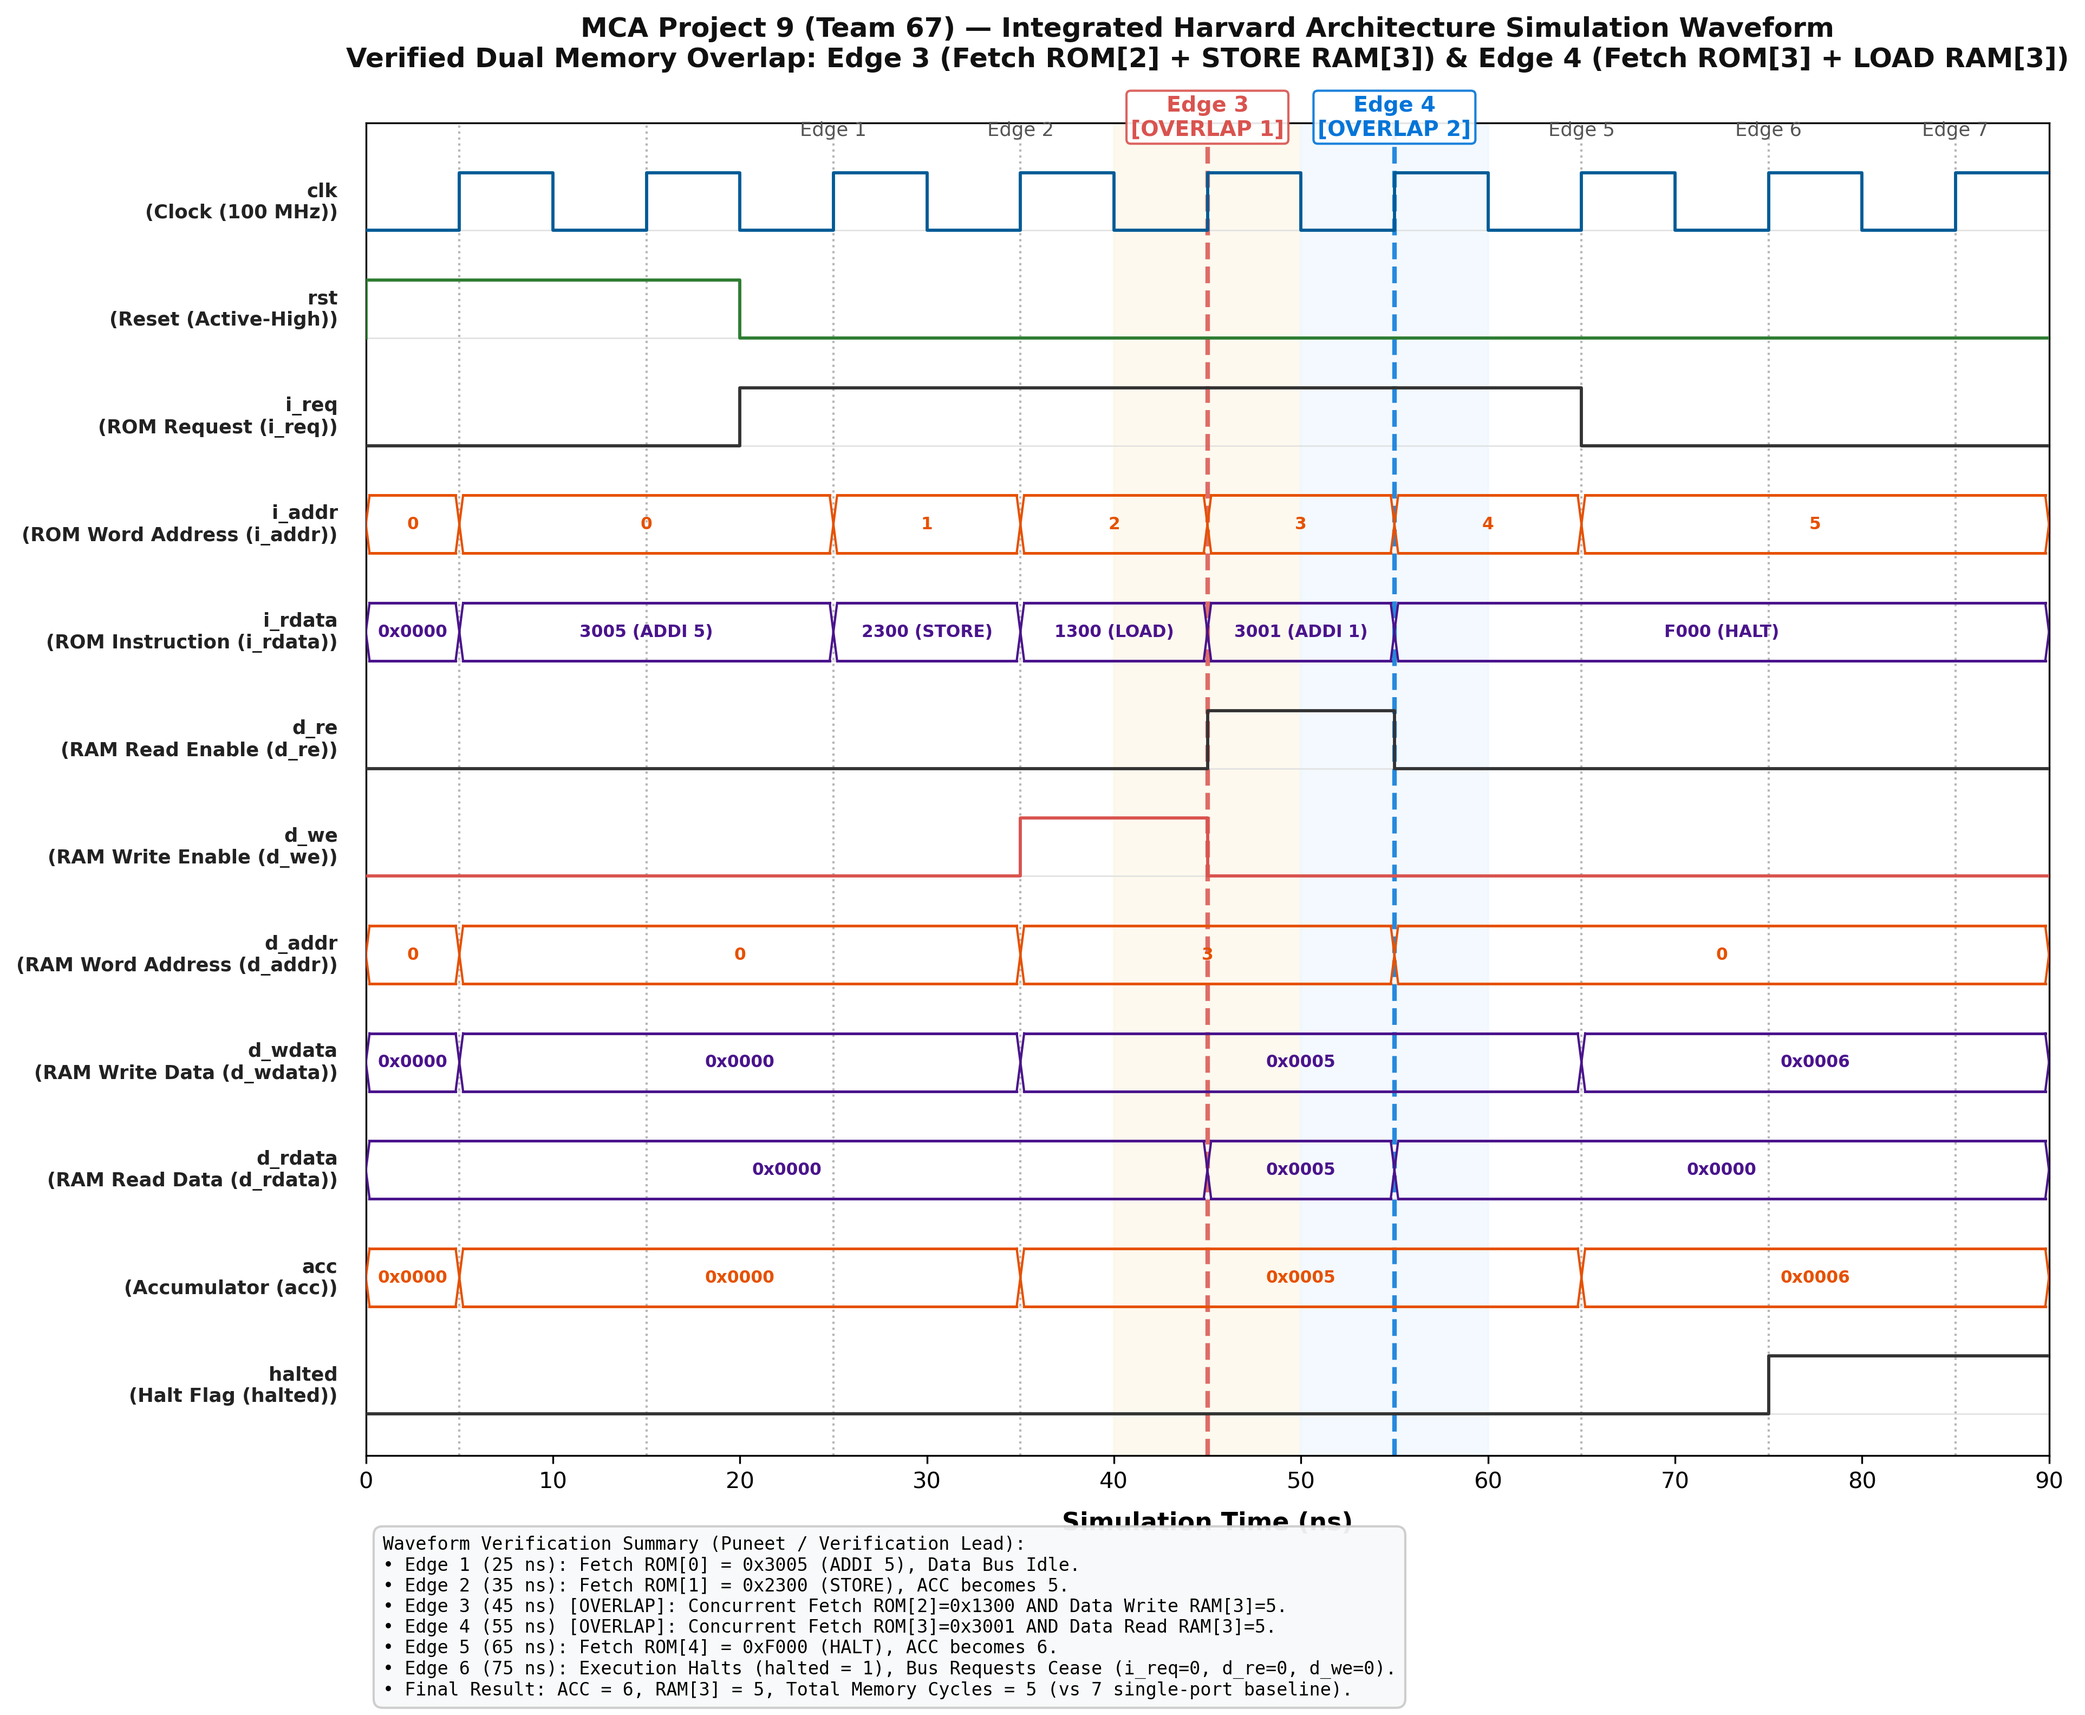
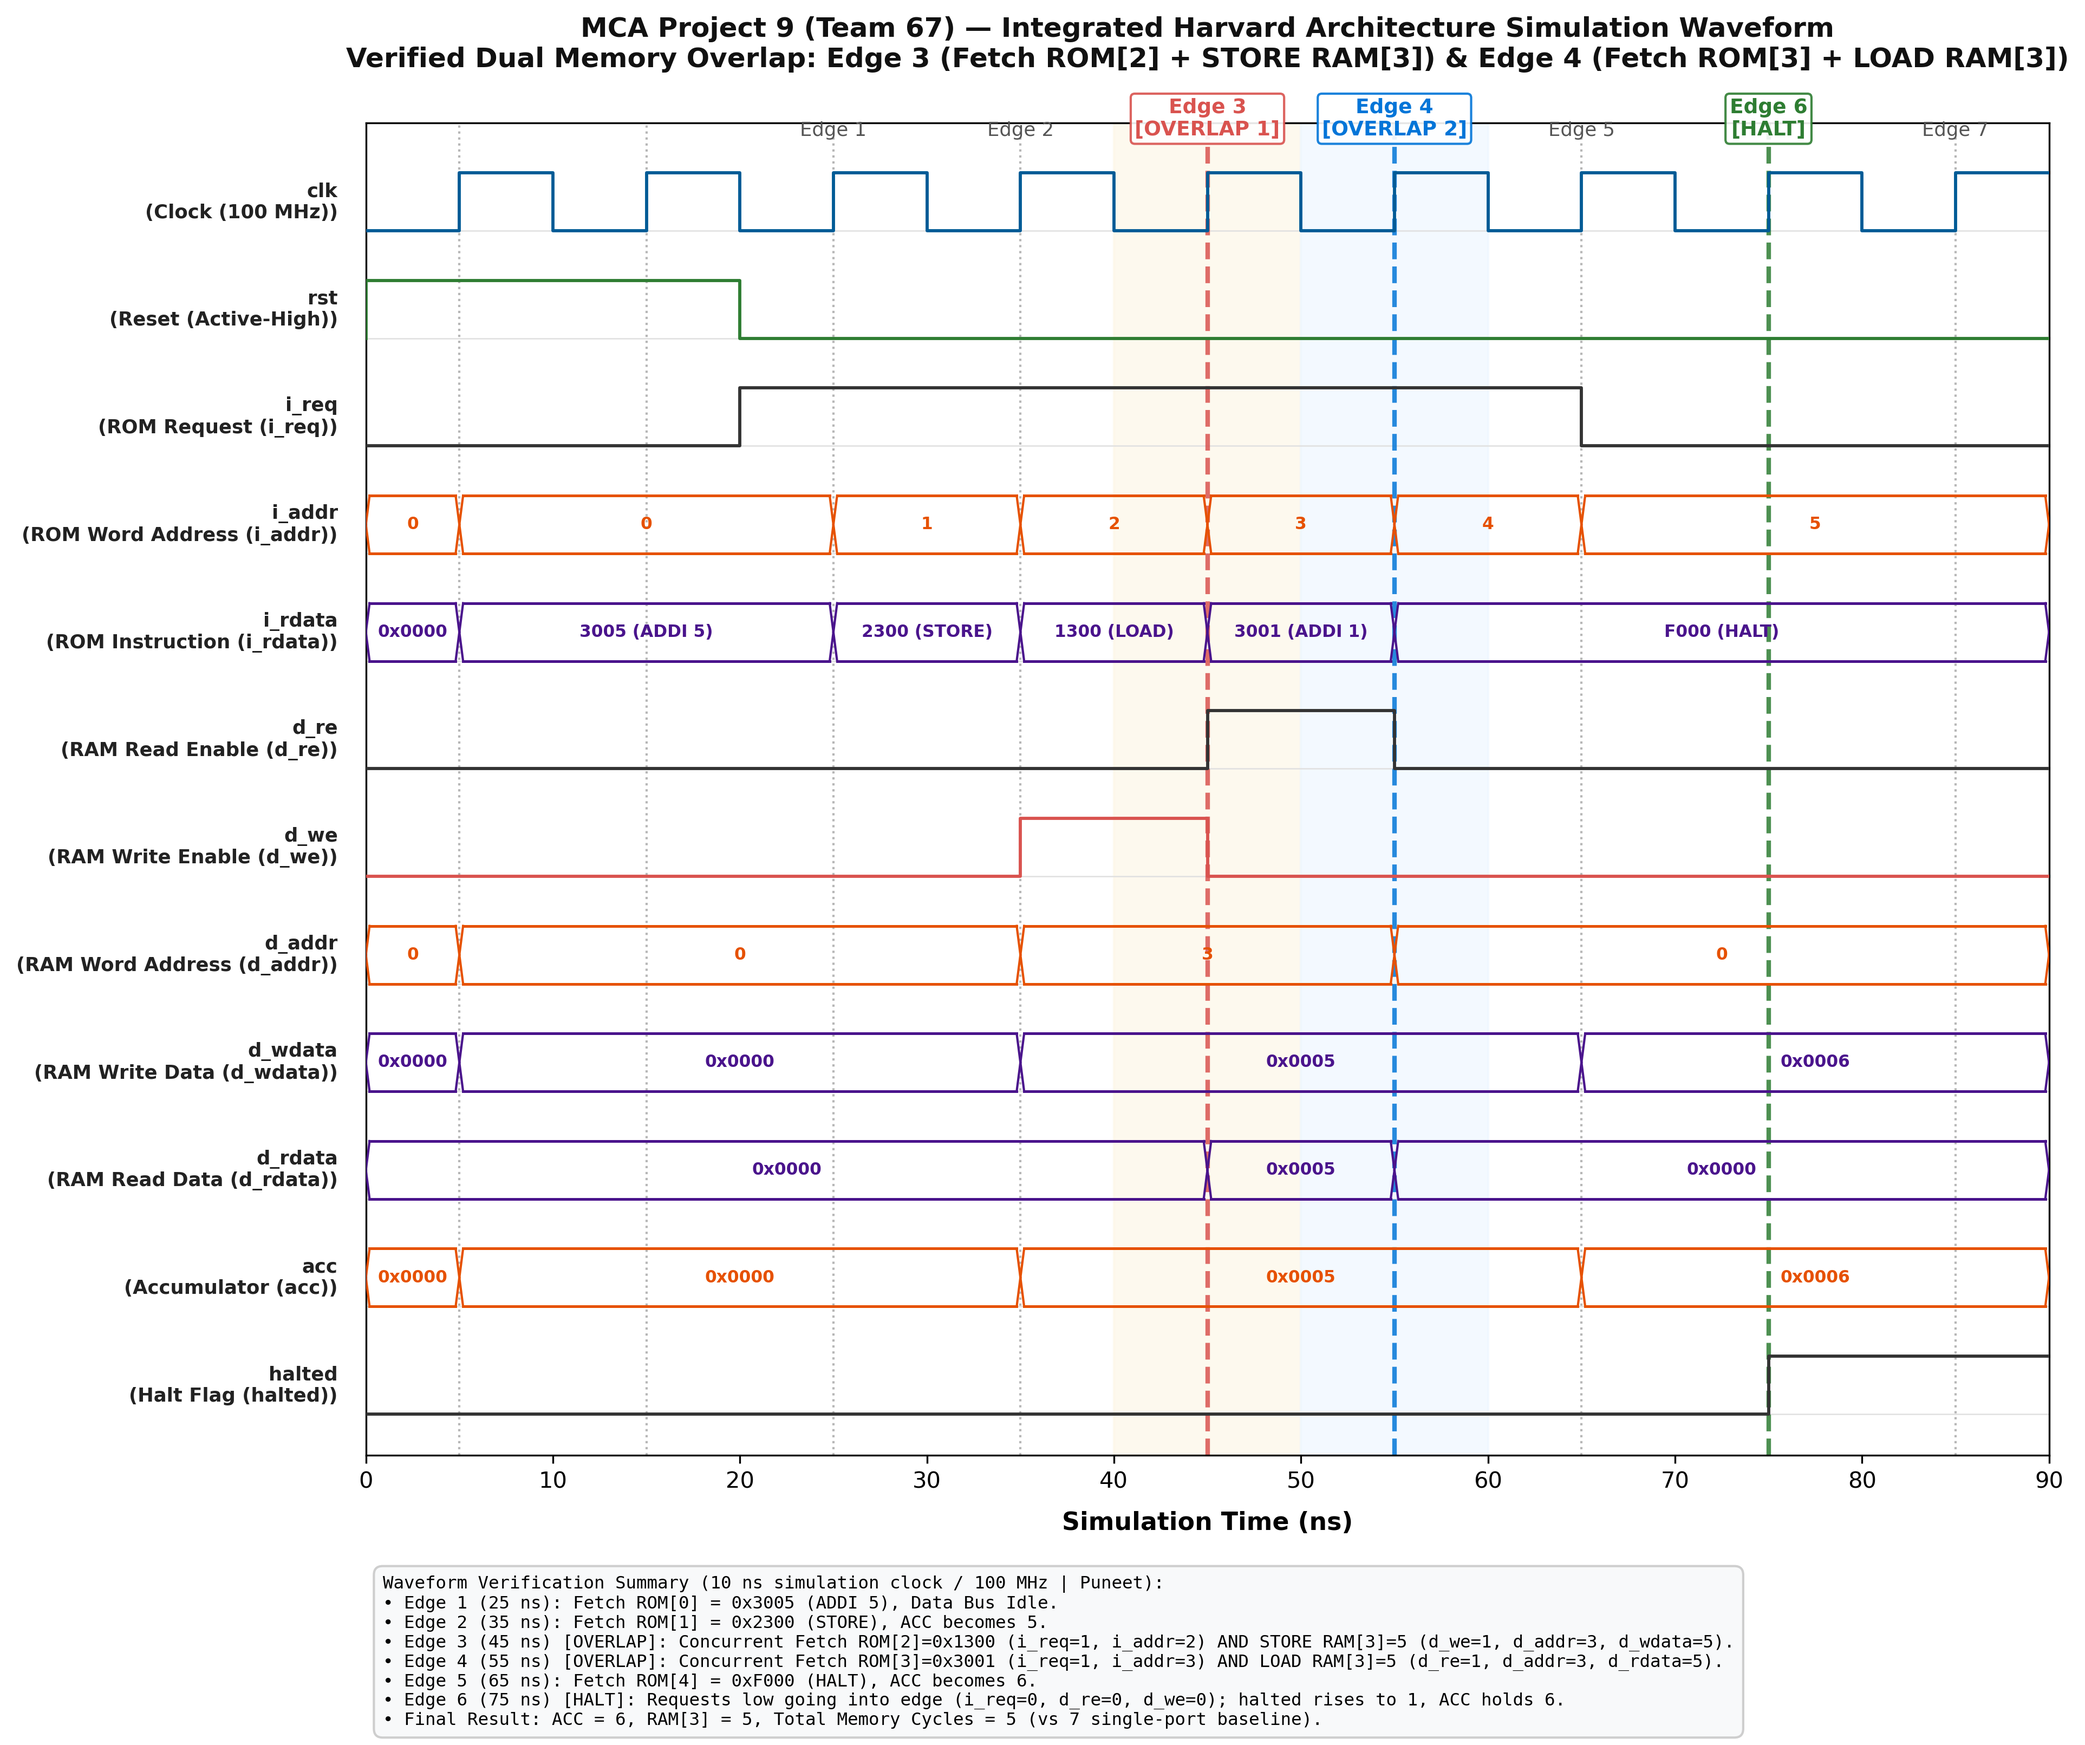
Phase II: verify full suite on c181e94 and refresh annotated waveform
- Re-run scripts/sim.sh against latest main (c181e94) with integrated ROM/RAM
- Confirm all 3 testbenches pass (harvard_tb, directed_load_tb, 24-check memory_tb)
- Update scripts/generate_waveform.py to highlight Edge 6 [HALT] and fix summary spacing
- Refresh docs/evidence/harvard-waveform.png, simulation_pass.log, and README.md

diff --git a/scripts/generate_waveform.py b/scripts/generate_waveform.py
@@ -125,11 +125,11 @@ edges = [
 ]
 
 for t_edge, label in edges:
-    if t_edge in [45, 55]:
-        # Overlap edges highlighted
-        color = '#d9534f' if t_edge == 45 else '#0275d8'
+    if t_edge in [45, 55, 75]:
+        # Key edges highlighted: Edge 3 (Overlap 1), Edge 4 (Overlap 2), Edge 6 (Halt)
+        color = '#d9534f' if t_edge == 45 else ('#0275d8' if t_edge == 55 else '#2e7d32')
         ax.axvline(x=t_edge, color=color, linestyle='--', linewidth=2.0, alpha=0.85, zorder=2)
-        ax.text(t_edge, total_height - 0.2, label, color=color, fontsize=9.5, fontweight='bold',
+        ax.text(t_edge, total_height - 0.2, label, color=color, fontsize=9.0, fontweight='bold',
                 ha='center', va='bottom', bbox=dict(boxstyle='round,pad=0.2', facecolor='white', edgecolor=color, alpha=0.9))
     else:
         ax.axvline(x=t_edge, color='#888888', linestyle=':', linewidth=1.0, alpha=0.6, zorder=1)
@@ -232,17 +232,17 @@ ax.set_title("MCA Project 9 (Team 67) — Integrated Harvard Architecture Simula
 
 # Add legend box for overlap explanation
 legend_text = (
-    "Waveform Verification Summary (Puneet / Verification Lead):\n"
+    "Waveform Verification Summary (10 ns simulation clock / 100 MHz | Puneet):\n"
     "• Edge 1 (25 ns): Fetch ROM[0] = 0x3005 (ADDI 5), Data Bus Idle.\n"
     "• Edge 2 (35 ns): Fetch ROM[1] = 0x2300 (STORE), ACC becomes 5.\n"
-    "• Edge 3 (45 ns) [OVERLAP]: Concurrent Fetch ROM[2]=0x1300 AND Data Write RAM[3]=5.\n"
-    "• Edge 4 (55 ns) [OVERLAP]: Concurrent Fetch ROM[3]=0x3001 AND Data Read RAM[3]=5.\n"
+    "• Edge 3 (45 ns) [OVERLAP]: Concurrent Fetch ROM[2]=0x1300 (i_req=1, i_addr=2) AND STORE RAM[3]=5 (d_we=1, d_addr=3, d_wdata=5).\n"
+    "• Edge 4 (55 ns) [OVERLAP]: Concurrent Fetch ROM[3]=0x3001 (i_req=1, i_addr=3) AND LOAD RAM[3]=5 (d_re=1, d_addr=3, d_rdata=5).\n"
     "• Edge 5 (65 ns): Fetch ROM[4] = 0xF000 (HALT), ACC becomes 6.\n"
-    "• Edge 6 (75 ns): Execution Halts (halted = 1), Bus Requests Cease (i_req=0, d_re=0, d_we=0).\n"
+    "• Edge 6 (75 ns) [HALT]: Requests low going into edge (i_req=0, d_re=0, d_we=0); halted rises to 1, ACC holds 6.\n"
     "• Final Result: ACC = 6, RAM[3] = 5, Total Memory Cycles = 5 (vs 7 single-port baseline)."
 )
 props = dict(boxstyle='round,pad=0.5', facecolor='#f8f9fa', edgecolor='#cccccc', alpha=0.95)
-ax.text(0.01, -0.06, legend_text, transform=ax.transAxes, fontsize=8,
+ax.text(0.01, -0.09, legend_text, transform=ax.transAxes, fontsize=7.8,
         verticalalignment='top', bbox=props, family='monospace')
 
 OUT_PNG.parent.mkdir(parents=True, exist_ok=True)

diff --git a/docs/evidence/README.md b/docs/evidence/README.md
@@ -1,8 +1,9 @@
 # Verification and Waveform Evidence
 
 **Owner:** Puneet (Verification Lead)  
-**Project:** MCA Project 9 — Instruction and Data Memory Hierarchy (Phase I)  
-**Deliverables:** Integrated Testbench (`tb/harvard_tb.v`), Directed LOAD Testbench (`tb/directed_load_tb.v`), Automated Simulation Runner (`scripts/sim.sh`), Waveform Generator (`scripts/generate_waveform.py`), and Simulation Evidence.
+**Project:** MCA Project 9 — Instruction and Data Memory Hierarchy (Phase I & Phase II)  
+**Verified Revision:** `c181e94` (Icarus Verilog 13.0)  
+**Deliverables:** Integrated Testbench (`tb/harvard_tb.v`), Directed LOAD Testbench (`tb/directed_load_tb.v`), Isolated Memory Testbench (`tb/memory_tb.v`), Automated Simulation Runner (`scripts/sim.sh`), Waveform Generator (`scripts/generate_waveform.py`), and Simulation Evidence.
 
 ---
 
@@ -16,7 +17,7 @@ The verification suite verifies the Harvard memory hierarchy prototype implement
 3. Execution halts cleanly on Edge 6, and all memory request lines (`i_req`, `d_re`, `d_we`) remain suppressed in post-halt quiescence (Edge 7).
 4. The directed LOAD testbench proves that the LOAD instruction genuinely reads data memory into the accumulator by setting ACC to 7 before LOAD and asserting that LOAD restores ACC to 5.
 
-All 7 cycle-accurate assertions pass with zero warnings under Icarus Verilog (`iverilog -g2012 -Wall`).
+All 7 cycle-accurate assertions in `tb/harvard_tb.v`, the directed LOAD test in `tb/directed_load_tb.v`, and all 24 isolated ROM/RAM checks in `tb/memory_tb.v` pass with zero warnings under Icarus Verilog (`iverilog -g2012 -Wall`).
 
 ---
 
@@ -49,6 +50,8 @@ The table below records the exact cycle-accurate signals sampled before and afte
 The annotated waveform diagram below captures all 12 key architecture signals across the 7 post-reset clock edges, highlighting the dual-memory overlap points on Edges 3 and 4:
 
 ![Harvard Architecture Waveform](harvard-waveform.png)
+
+*Report Caption (10 ns simulation clock):* Annotated simulation waveform of `harvard_top` (`10 ns` simulation clock) from `tb/harvard_tb.v` at commit `c181e94`. Edge 3 (`45 ns`) shows concurrent instruction fetch (`i_req = 1`, `i_addr = 2`) and data write (`d_we = 1`, `d_addr = 3`, `d_wdata = 5`). Edge 4 (`55 ns`) shows concurrent instruction fetch (`i_req = 1`, `i_addr = 3`) and data read (`d_re = 1`, `d_addr = 3`, `d_rdata = 5`). At Edge 6 (`75 ns`), requests are low going into the edge, `halted` rises to `1`, and `ACC` holds `6`.
 
 *Raw simulation waveform file:* `build/harvard.vcd`
 
